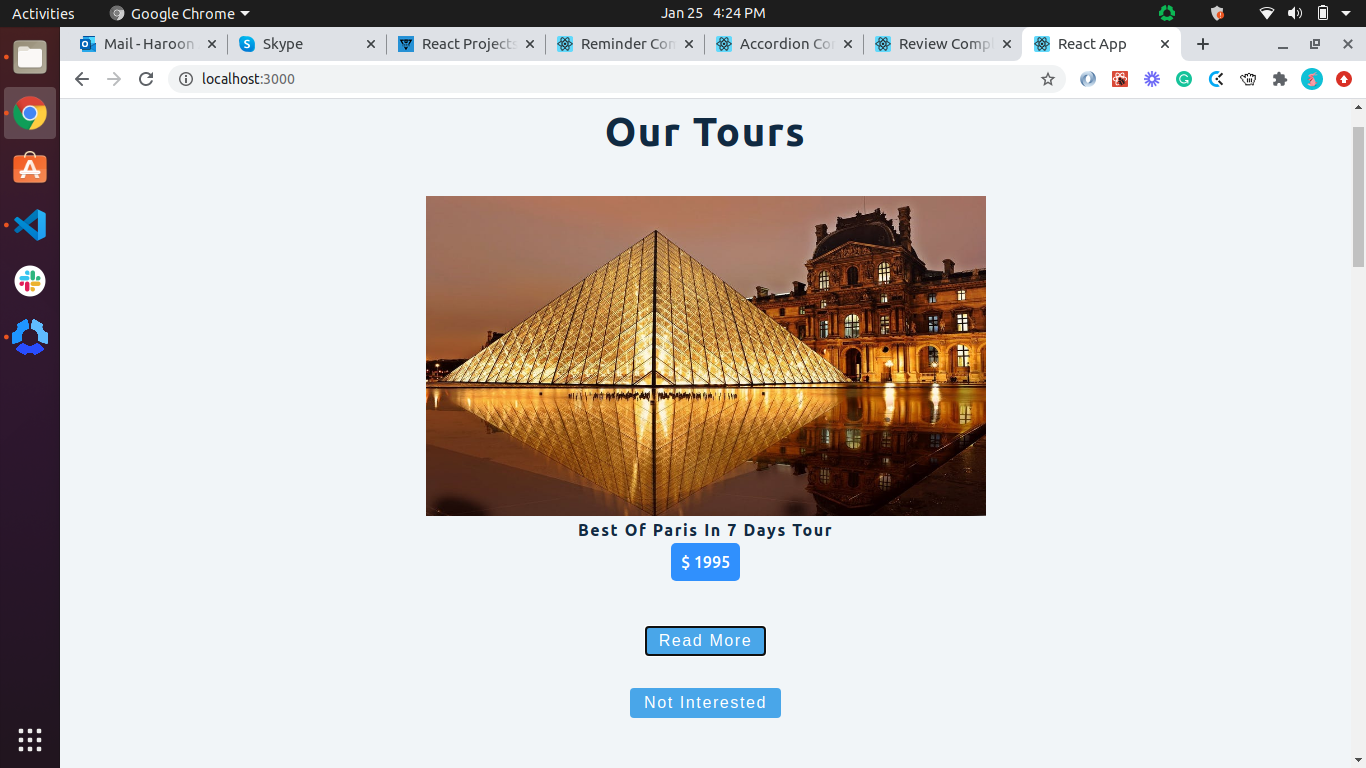
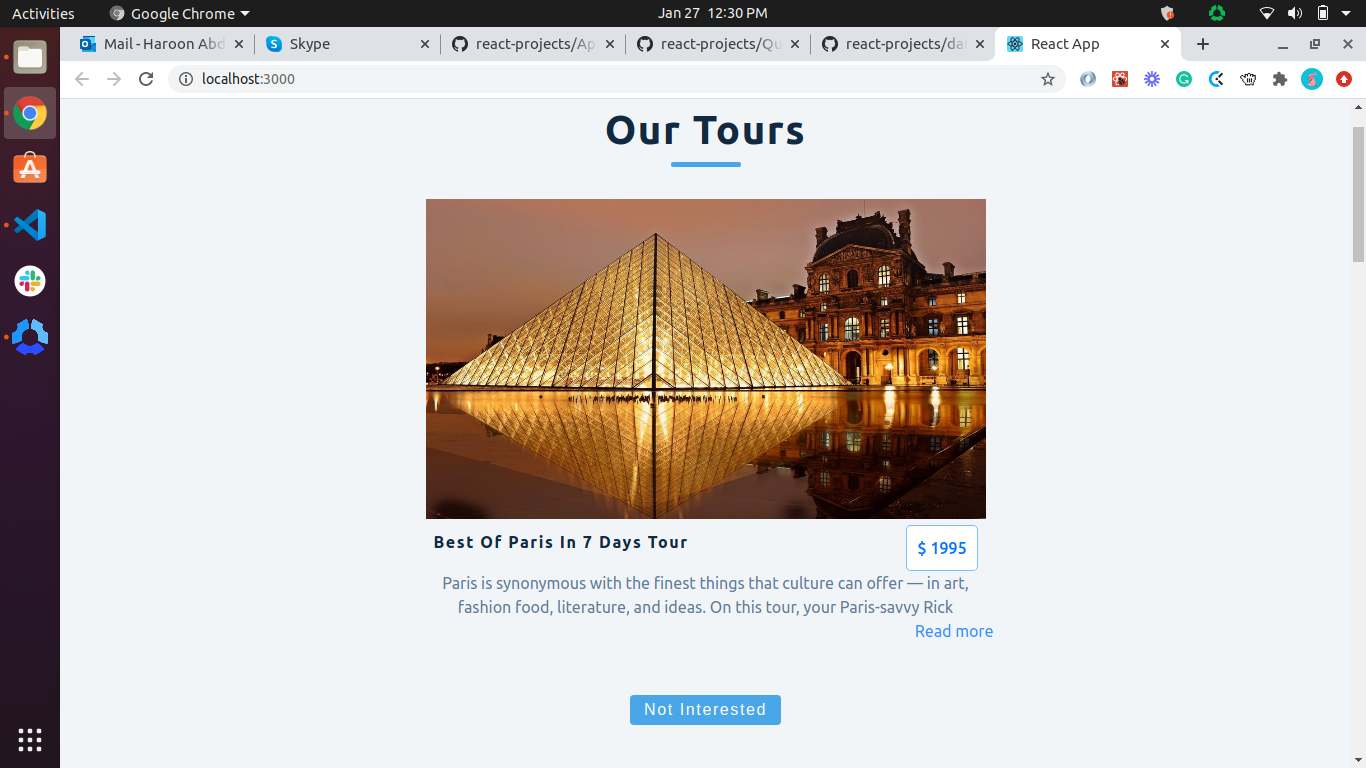
Update review for slider

diff --git a/src/tutorial/projects/OurTours.css b/src/tutorial/projects/OurTours.css
@@ -4,6 +4,15 @@
   justify-content: center;
   align-content: center;
 }
+
+.underline {
+  width: 70px;
+  height: 5px;
+  background:  #49a6e9;
+  margin: 0 auto;
+  border-radius: 5px;
+}
+
 .head-price {
   display: flex;
   flex-direction: row;
@@ -26,14 +35,12 @@
   height: auto;
   margin: 0 auto;
   padding: 2rem;
-  
 }
 
 .tour-text {
   text-align: center;
   display: inline;
   margin: 0;
-  padding: 1em;
 }
 
 .tour-img {

diff --git a/src/tutorial/projects/OurTours.js b/src/tutorial/projects/OurTours.js
@@ -15,6 +15,7 @@ const OurTours = () => {
   return (
     <section className="all-tour">
       <h2 className="title">Our Tours</h2>
+      <div className="underline"></div>
       {tourData.map((tour)=>{
       return <div className="single-tour" >
           <SingleTour key={tour.id} {...tour} ></SingleTour>

diff --git a/README.md b/README.md
@@ -49,4 +49,7 @@
   ## Accordion Screenshot 
   ![screenshot](/src/tutorial/projects/screenshots/Accordion.png)
 
+  ## Slider Review Screenshot 
+  ![screenshot](/src/tutorial/projects/screenshots/SliderReviews.png)
+
 
